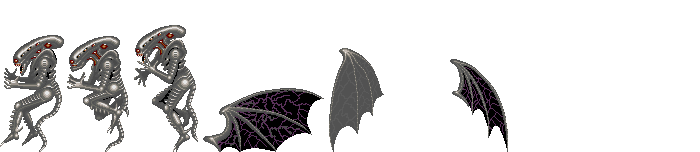
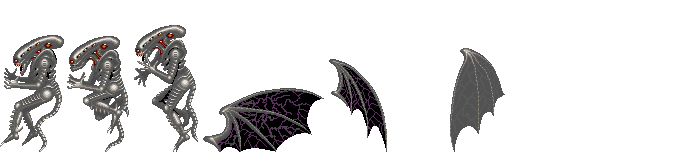
Loaded the queen sprites

Changed region(s): [[0.45, 0.3158, 0.57, 0.9737], [0.63, 0.3158, 0.75, 0.9737]]

diff --git a/src/cegepst/AlienTextures.java b/src/cegepst/AlienTextures.java
@@ -10,10 +10,14 @@ public class AlienTextures {
     private static Image[] mainRunnerFrames;
     private static Image[] attackRunnerFrames;
     private static Image[] deathRunnerFrames;
+    private static Image[] alienQueenFrames;
+    private static Image[] alienQueenWingFrames;
     private final String SPRITE_PATH = "images/AliensSpritesResized.png";
+    private final String ALIEN_QUEEN_SPRITE_PATH = "images/AlienBoss.png";
     private SpriteReader spriteReader;
     private ImagesReader imagesReader;
-    private BufferedImage spritesheet;
+    private BufferedImage alienSpriteSheet;
+    private BufferedImage alienQueenSpriteSheet;
 
     public AlienTextures() {
         initSpritesheet();
@@ -41,18 +45,29 @@ public class AlienTextures {
         return deathRunnerFrames;
     }
 
+    public static Image[] getAlienQueenFrames() {
+        return alienQueenFrames;
+    }
+
+    public static Image[] getAlienQueenWingFrames() {
+        return alienQueenWingFrames;
+    }
+
     private void initFrames() {
         mainCrawlerFrames = new Image[4];
         attackCrawlerFrames = new Image[2];
         mainRunnerFrames = new Image[6];
         attackRunnerFrames = new Image[2];
         deathRunnerFrames = new Image[4];
+        alienQueenFrames = new Image[3];
+        alienQueenWingFrames = new Image[3];
     }
 
     public void initSpritesheet() {
         imagesReader = new ImagesReader();
-        spritesheet = imagesReader.readImage(SPRITE_PATH);
-        this.spriteReader = new SpriteReader(spritesheet);
+        alienSpriteSheet = imagesReader.readImage(SPRITE_PATH);
+        alienQueenSpriteSheet = imagesReader.readImage(ALIEN_QUEEN_SPRITE_PATH);
+        this.spriteReader = new SpriteReader(alienSpriteSheet);
     }
 
     public void readSprites() {
@@ -61,5 +76,8 @@ public class AlienTextures {
         spriteReader.readRightSpriteSheet(mainRunnerFrames, AlienSpritesheetInfo.RUNNER_START_X, AlienSpritesheetInfo.RUNNER_START_Y, AlienSpritesheetInfo.RUNNER_WIDTH, AlienSpritesheetInfo.RUNNER_HEIGHT, mainRunnerFrames.length);
         spriteReader.readRightSpriteSheet(attackRunnerFrames, AlienSpritesheetInfo.RUNNER_ATTACK_START_X, AlienSpritesheetInfo.RUNNER_ATTACK_START_Y, AlienSpritesheetInfo.RUNNER_ATTACK_WIDTH, AlienSpritesheetInfo.RUNNER_HEIGHT, attackRunnerFrames.length);
         spriteReader.readRightSpriteSheet(deathRunnerFrames, AlienSpritesheetInfo.RUNNER_DEATH_START_X, AlienSpritesheetInfo.RUNNER_DEATH_START_Y, AlienSpritesheetInfo.RUNNER_DEATH_FRAMES_WIDTH, AlienSpritesheetInfo.RUNNER_DEATH_FRAMES_HEIGHT, deathRunnerFrames.length);
+        this.spriteReader = new SpriteReader(alienQueenSpriteSheet);
+        spriteReader.readRightSpriteSheet(alienQueenFrames, AlienSpritesheetInfo.QUEEN_START_X, AlienSpritesheetInfo.QUEEN_START_Y, AlienSpritesheetInfo.QUEEN_WIDTH, AlienSpritesheetInfo.QUEEN_HEIGHT, alienQueenFrames.length);
+        spriteReader.readRightSpriteSheet(alienQueenWingFrames, AlienSpritesheetInfo.QUEEN_WINGS_START_X, AlienSpritesheetInfo.QUEEN_WINGS_START_Y, AlienSpritesheetInfo.QUEEN_WINGS_WIDTH, AlienSpritesheetInfo.QUEEN_WINGS_HEIGHT, alienQueenWingFrames.length);
     }
 }

diff --git a/src/cegepst/SpriteReader.java b/src/cegepst/SpriteReader.java
@@ -5,7 +5,7 @@ import java.awt.image.BufferedImage;
 
 public class SpriteReader {
 
-    private BufferedImage spriteSheet;
+    private final BufferedImage spriteSheet;
 
     public SpriteReader(BufferedImage spriteSheet) {
         this.spriteSheet = spriteSheet;
@@ -25,33 +25,5 @@ public class SpriteReader {
 
     public BufferedImage readSingleFrame(int xPositionStart, int yPositionStart, int imageWidth, int imagesHeight) {
         return spriteSheet.getSubimage(xPositionStart, yPositionStart, imageWidth, imagesHeight);
-    }
-
-    public void flipImage(BufferedImage image) {
-        for (int i = 0; i < image.getWidth(); i++){
-            for (int j = 0; j < image.getHeight() / 2; j++) {
-                int currentPixel = image.getRGB(i, j);
-                image.setRGB(i, j, image.getRGB(i, image.getHeight() - j - 1));
-                image.setRGB(i, image.getHeight() - j - 1, currentPixel);
-            }
-        }
-    }
-
-    public BufferedImage flip(BufferedImage image) {
-        for (int i = 0; i < image.getWidth(); i++){
-            for (int j = 0; j < image.getHeight() / 2; j++) {
-                int currentPixel = image.getRGB(i, j);
-                image.setRGB(i, j, image.getRGB(i, image.getHeight() - j - 1));
-                image.setRGB(i, image.getHeight() - j - 1, currentPixel);
-            }
-        }
-        return image;
-    }
-
-    public Image[] flipSprite(Image[] images) {
-        for (int i = 0; i < images.length; i++) {
-            flipImage((BufferedImage) images[i]);
-        }
-        return images;
     }
 }

diff --git a/src/cegepst/AlienSpritesheetInfo.java b/src/cegepst/AlienSpritesheetInfo.java
@@ -19,4 +19,13 @@ public class AlienSpritesheetInfo {
     public static final int RUNNER_DEATH_FRAMES_HEIGHT = 82;
     public static final int RUNNER_DEATH_START_X = 530;
     public static final int RUNNER_DEATH_START_Y = 412;
+
+    public static final int QUEEN_WIDTH = 64;
+    public static final int QUEEN_HEIGHT = 127;
+    public static final int QUEEN_START_X = 0;
+    public static final int QUEEN_START_Y = 25;
+    public static final int QUEEN_WINGS_WIDTH = 120;
+    public static final int QUEEN_WINGS_HEIGHT = 111;
+    public static final int QUEEN_WINGS_START_X = 204;
+    public static final int QUEEN_WINGS_START_Y = 49;
 }

diff --git a/src/cegepst/AlienQueen.java b/src/cegepst/AlienQueen.java
@@ -3,6 +3,8 @@ package cegepst;
 import cegepst.engine.Buffer;
 
 public class AlienQueen extends Alien {
+
+
     @Override
     public void initFrames() {
 
